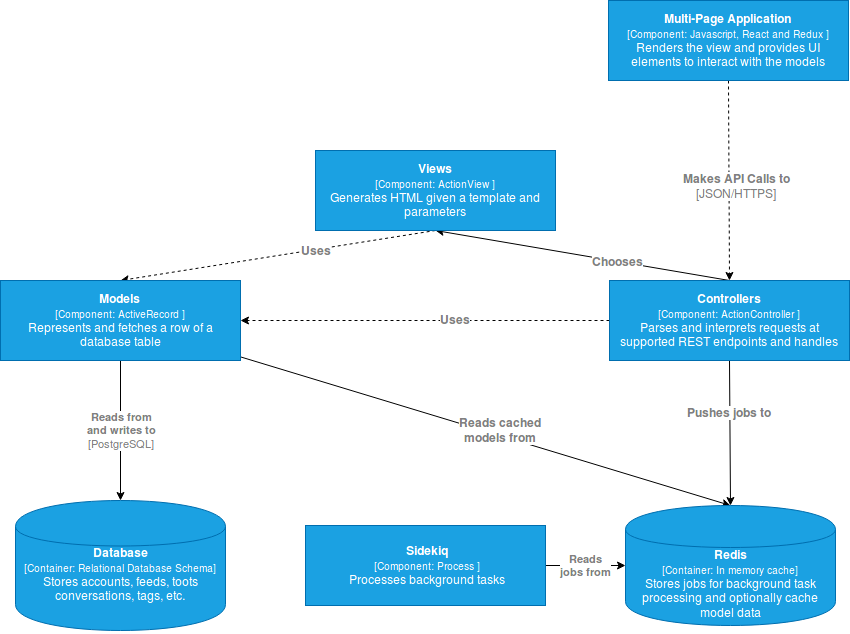
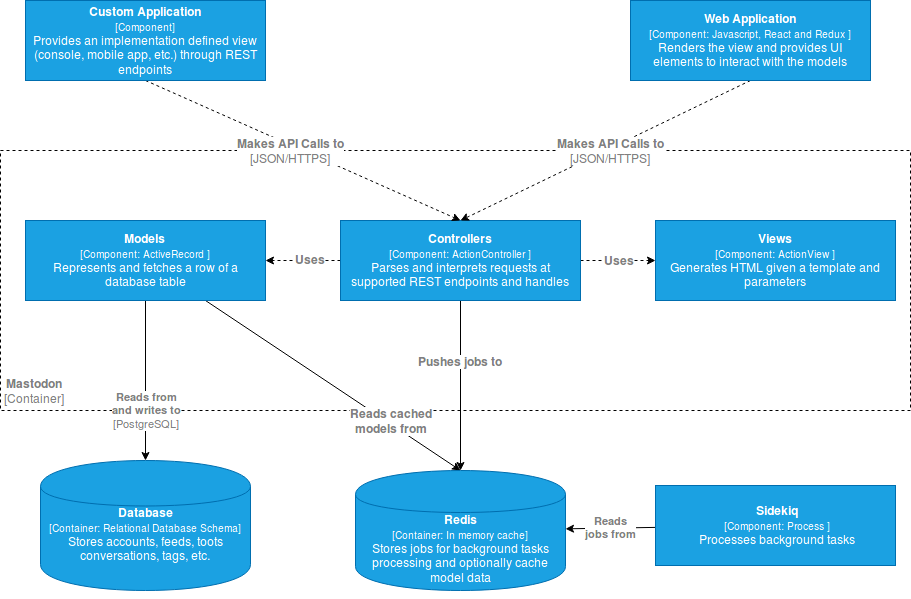
Update README.md with all major components needed
Still needs some more polishing...

diff --git a/README.md b/README.md
@@ -4,12 +4,6 @@
 
 Mastodon is a decentralized social media platform which supports self-hosted and independent instances through federation. Federation is achieved through the [AcitivityPub protocol](https://www.w3.org/TR/activitypub/) which using a mailbox system for sending and receiving messages across different servers supporting the protocol.
 
-## Installation
-
-TODO: add installation steps here 
-
-From the official page, installation assumes Ubuntu 18.04 but I have Ubuntu version 16.04 on my local machine.
-
 ## Technology Stack
 - __Ruby__: language used to implement the majority of backend functionality
 - __Rails__: web application framework supporting MVC design pattern
@@ -29,7 +23,7 @@ Ruby code can be found in the directories located in the `app` parent directory.
 
 ### Ruby
 Naturally used in the backend where they implement logic needed to complete tasks such as fetch data from the 
-postgresqldatabase and render web pages for the frontend. Web pages are created using __Rails__ web application framework. Ruby code within the project follows a typical Object Oriented (OO) style where all class properties or member
+postgresql database and render web pages for the frontend. Web pages are created using __Rails__ web application framework. Ruby code within the project follows a typical Object Oriented (OO) style where all class properties or member
 variables are private and can only be accessed through getters and setters. 
 
 #### Ruby Libraries
@@ -41,12 +35,12 @@ only list a few notable libraries that are used throughout the project.
 the familiar socket function calls such as `open()`, `send()` and `read()`. In mastodon, WebSockets are mainly used to implement
 the streaming functionality that provides live updates about toots. 
 - __doorkeeper__: OAuth2 provider
-- __paper__: paperclip: provides file upload and attachment functionaility
+- __paper__: paperclip: provides file upload and attachment functionality
 - __webpacker__: provides a means to manage dependencies between javascript modules within Rails applications
 - __sidekiq__: a job scheduler library for managing jobs in Ruby. During the lifecycle of the application, Mastodon will create
 `Sidekiq::Worker`s to handle background tasks such as updating feeds and displaying notifications
 - __Rails__: 
-  - __Model__: In keeping with the __DRY__ principle each table defined in the postgresqll database instance have their equivalent ruby class file in `app/models`. Models are implemented as Active Records which are defined in the Object/Relational Mapping (ORM) layer. 
+  - __Model__: In keeping with the __DRY__ principle each table defined in the PostgreSQL database instance have their equivalent ruby class file in `app/models`. Models are implemented as Active Records which are defined in the Object/Relational Mapping (ORM) layer. 
 This allows for a seamless mapping of tables to Ruby objects. 
   - __View__: For templating, HTML abstraction markup language (`haml`) is used instead of the standard Embedded Ruby (ERB)
 templating. From looking at the process of converting ERB to Haml, it appears that Haml prefers a much less verbose
@@ -59,7 +53,7 @@ of CSS like syntax.
 Only counts for a small percentage of the source code base (26%). Javascript in mastodon is utilized to implement
 views of the various models defined in the application. User actions, such as clicking on a user profile, will invoke javascript
 generated `http` GET requests to corresponding RESTFUL endpoints. Likewise, post requests will invoke `http` post request which may
-update models stored within the database. Responses are typically in the form of a JSON dictionary containing requested information. 
+update models stored within the database. Responses are typically in the form of a JSON dictionary containing the requested information. 
 DOM updates are primarily routed to the React.js library rather interacting with the DOM directly.
 
 #### Javascript Libraries
@@ -75,13 +69,13 @@ A `Flux` application consists of four components: (1) actions (2) dispatcher (3)
   
   Redux deviates slightly from Flux in a few ways. Firstly, there is only one store which maintains a single object describing the state of the entire application. There are no dispatchers to update the store but rather __reducers__ which are pure functions that compute state changes based on the actions. 
   Overall Redux fits nicely with user interface frameworks such as React which maintain a stateful view of the Document Object Model (DOM). 
-  ![redux](assets/img/redux.png)
+  ![Redux](assets/img/redux.png)
   
 - __React__: a popular user interface library which simplifies state management of view related concepts. The power of React starts with the virtual DOM.
 Applications which use React will indirectly manipulate the DOM by first applying changes to an in-memory copy. This modified copy is compared with the original
-DOM and changes are reconsolidated by only updating nodes within the DOM that was changed. An interesting thing to note is that, React and Redux work well together; React generates
+DOM and changes are reconsolidated by only updating nodes within the DOM that was changed. An interesting thing to note is that React and Redux work well together; React generates
 state updates in response to actions which can then be used by React to update 
-In fact Redux provides native support for allowing React components to update their own state by querying the __store__.
+In fact, Redux provides native support for allowing React components to update their own state by querying the __store__.
 
 ### Thoughts on Programming Languages
 
@@ -93,14 +87,14 @@ If I were to implement an application in a similar vein to Mastodon, I would not
 be driven by biases due to familiarity. Therefore, if given the choice I would rather implement the backend using python. My experience with python
 has led me to prefer its syntax and how object-oriented concepts are implemented. However, there are some considerations I would make be committing to this idea. First, there would need to be an understanding of implications on performance (e.g. will CPython be adequate or will another implementation be needed?).
 Second, how will Mastodon in python scale as more local users create accounts and more federated mastodon server instances are created? Lastly, we have to consider if the available web frameworks for python are sufficient enough for Mastodon. I believe Django is equivalent to Rails in terms of supporting the 
-Model View Controller (MVC) paradigm. It also has the option of Django webpacker for managing frontend files.
+Model View Controller (MVC) paradigm. It also has the option of Django WebPacker for managing frontend files.
 
-## Build System
+## Build and Launch System
 
 Since Mastodon is a web application built on languages which are compiled JIT (Just in Time), there is no concept of building the application. Instead, mastodon requires several services or processes to run before it can serve clients. As a user who is not interested in underlying details, you can use `foreman` gem to spawn the needed process dependencies. In the project, two files `Procfile` and `Procfile.dev` indicate
 which processes need to run and their corresponding arguments. The `.dev` denotes launch configuration for development environments. From a quick glance
 at the production `Procfile`, mastodon spawns a `puma`) web server that houses the rails application. Additionally
-a background process, `sidekiq` is started to handle asynchronous job requests from the main Rails app.
+a background process, Sidekiq is started to handle asynchronous job requests from the main Rails app.
 
 ## Testing
 
@@ -116,7 +110,7 @@ __failing__ tests drive implementation. Despite this awkward indirection, follow
 much higher testing code coverage than the conventional ad-hoc write-tests-after-implementation.
 
 A nice feature of rspec is that it also provides a nice interface to view what percentage of your code tests cover.
-rspec generates static web page with a single `.html` after running the ruby test suite defined in the `Mastodon`
+rspec generates a static web page with a single `.html` after running the ruby test suite defined in the `Mastodon`
 project directory. The figure below shows an example of output after running the test suite.
 
 ![](assets/img/coverage_ex.png)
@@ -134,34 +128,72 @@ using `jest`.
 
 ![](assets/img/js_coverage_ex.png)
 
-Although not as convenient as the html output generated by `rspec` it does give a good idea what parts of the code are touched the
+Although not as convenient as the HTML output generated by `rspec` it does give a good idea what parts of the code are touched the
 most by the test cases with a quick glance.
 
 #### Continuous Integration
-Mastodon uses [circleci](https://circleci.com/) as their continuous integration platform. CircleCI is a cloud-based continuous integration platform much like travisCI which provides a RESTFUL API for easy integration with user-defined applications. Users configure jobs to run upon integration within the `.circleci/config.yml`. An interesting feature of CircleCI is the ability to run jobs sequentially or fan out at defined points to quickly identify problematic builds. In terms of platforms, circleCI supports spinning up Android, GNU/Linux and macOS platforms for testing and deployment. Mastodon `circleci/config.yml` specifies the use of `circleci/ryby:2.6.0-stretch node` for the `docker` configuration. This image corresponds to the `Debian stretch` operating system. 
+Mastodon uses [circleci](https://circleci.com/) as the continuous integration platform. CircleCI is a cloud-based continuous integration platform much like travisCI which provides a RESTFUL API for easy integration with user-defined applications. Users configure jobs to run upon integration within the `.circleci/config.yml`. An interesting feature of CircleCI is the ability to run jobs sequentially or fan out at defined points to quickly identify problematic builds. In terms of platforms, circleCI supports spinning up Android, GNU/Linux and macOS platforms for testing and deployment. Mastodon `circleci/config.yml` specifies the use of `circleci/ryby:2.6.0-stretch node` for the `docker` configuration. This image corresponds to the `Debian stretch` operating system. 
+
+The figure below shows the various jobs triggered by pushes to the master branch.
+
+![](assets/img/circleci_main.png)
+
+In the following figure, we can see one successful passing push in a little more detail.
+
+![](assets/img/circleci_ex_push.png)
 
 ## Architecture
 
-Mastodon's architecture is similar to that of a conventional web application; it features a responsive frontend using Facebook's `React.js` library and a back-end component which handles retrieving and updating models along with providing the correct views to the user depending on the RESTFUL endpoint. To best describe the architecture, this report will present the application in three levels of abstration using the [C4 design model](https://c4model.com/). In the C4 model, each abstraction is tied to a specific context which governs the appropiate information that should be presented. Currently the contexts or abstraction levels are __system__, __container__ and __component__.
+Mastodon's architecture is similar to that of a conventional web application; it features a responsive frontend using Facebook's `React.js` library and a back-end component which handles retrieving and updating models along with providing the correct views to the user depending on the RESTFUL endpoint. To best describe the architecture, this report will present the application in three levels of abstraction using the [C4 design model](https://c4model.com/). In the C4 model, each abstraction is tied to a specific context which governs the appropriate information that should be presented. Currently the contexts or abstraction levels are __system__, __container__ and __component__.
 
-The figure below is the __system context__ which places the software in relation to its enviornment. 
+The figure below is the __system context__ which places the software in relation to its environment. 
 
 ![system context](assets/img/mastodon_sys_context.png)
 
-The figure below is the __container context__ showing the high level view of the major technologies that support mastodon.
+Intuitively, a Mastodon instance not only interacts with users on various platforms but also other servers within the Federated Network. There is one detail that is not included in the diagram: users are not able to receive public timeline updates from domains blacklisted by Mastodon `mastodon.social`. Therefore, moderation is one of the few components that are centralized.
+
+The figure below is the __container context__ showing the high-level view of the major technologies that support mastodon.
 
 ![](assets/img/mastodon_containers.png)
 
-The figure below is the __component context__ providng a more finer grained view into the system.
+The diagram shows some of the major technologies and protocols used to support a Mastodon instance.
+
+The figure below is the __component context__ providing a finer grained view into the system.
 
 ![](assets/img/mastodon_component_context.png)
 
+In a nutshell, users interact with Mastodon through the various REST endpoints supported by the ruby application. Although the RESTFUL paradigm permits accessibility from virtually any device capable of sending HTTP requests and receiving HTTP response, I will restrict the discussion of the overall architecture to the case where the Ruby/Rails server application is severing a client running within a browser. In this scenario, web pages are generated through `ActionView` class instances. `ActionView` classes execute embedded ruby instructions found within `haml` files which are sent through HTTP response messages. Requests are handled by `ActionControllers` which will attempt to parse and interpret endpoints and their arguments. Mastodon also depends on the ability to run numerous tasks __asynchronous__ and in __parrallel__. For this, the Sidekiq framework is enlisted as the background job scheduler. Probably the most important job by Mastodon is periodically publishing local activity to subscribed users listening to a particular public timeline. Jobs for SideKiq are stored in Redis by controllers and services running in Mastodon. These sequence of jobs are treated as a queue. Models or `ActiveRecords` may also be stored in Redis to exploit temporal locality present in the current ORM access patterns. However, there will be times where model data requires a more expensive fetch through PostgreSQL.
+
 ## Issues
 
-TODO: Add issues here
+At the time of writing, there are roughly 1,000+ issues opened by the Mastodon community. For this report, I restricted my search to bugs since oftentimes the outcome can be objectively judged. 
+- [Backspace keyboard shortcut doesn't work in firefox #8432](https://github.com/tootsuite/mastodon/issues/8432): A user claims that the `backspace` shortcut, which closes the profile column, fails to work on recent versions of Firefox running on Windows 10. From reading the description, it appears that most of the work will be in reproducing this issue to narrow down the cause. There can be many potential culprits for this issue but one likely culprit is the use of features in javascript that is supported in chrome but not Firefox. Such an issue may require rewriting the code to be more portable or in worse case inserting browser-specific code. I did confirm on my local instance on Firefox the backspace shortcut works so further troubleshooting is needed.
+- [Animated PNGs autoplay with autoplay disabled #9981](https://github.com/tootsuite/mastodon/issues/9981): Animated Portable Network Graphics (APNG) are not supported on Mastodon; only the first frame is shown when a browser decides to render the image. Fixing this issue will require updating the back-end to detect if a PNG file should be animated. This will require at least one function to search for a [signature](https://stackoverflow.com/questions/4525152/can-i-programmatically-determine-if-a-png-is-animated/4525194#4525194) within the image. 
 
 ## Demo
 
-TODO: add demonstation images and description
+The figure below highlight the typical usage of Mastodon. Note that this instance is spawned from a development configuration but the functionality is equivalent to a production server. 
+
+### Launching application
+
+To test Mastodon, I spawned a local instance with a web server listening on the default port `3000`.
+
+![](assets/img/launching_app.png)
+
+### Landing page for an unregistered user
 
 ![](assets/img/mastodon_about_local_host.png)
+
+### Home page after registering
+
+In this view, you can see toots in both the local timeline and federated timeline.
+
+![](assets/img/full_screen.png)
+
+### Editing your profile
+
+![](assets/img/edit_profile_page.png)
+
+### Bio page
+
+![](assets/img/bio_page.png)
